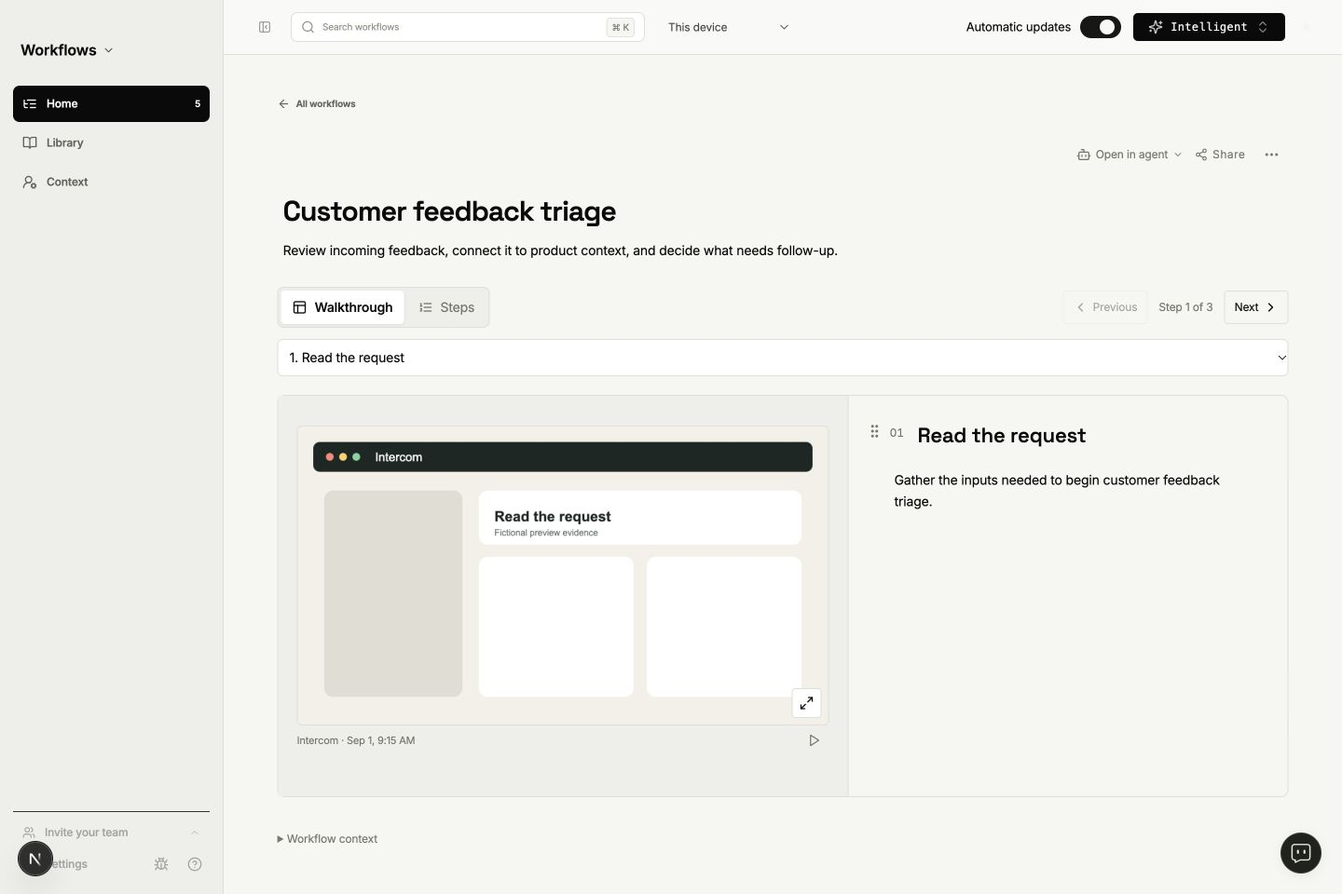
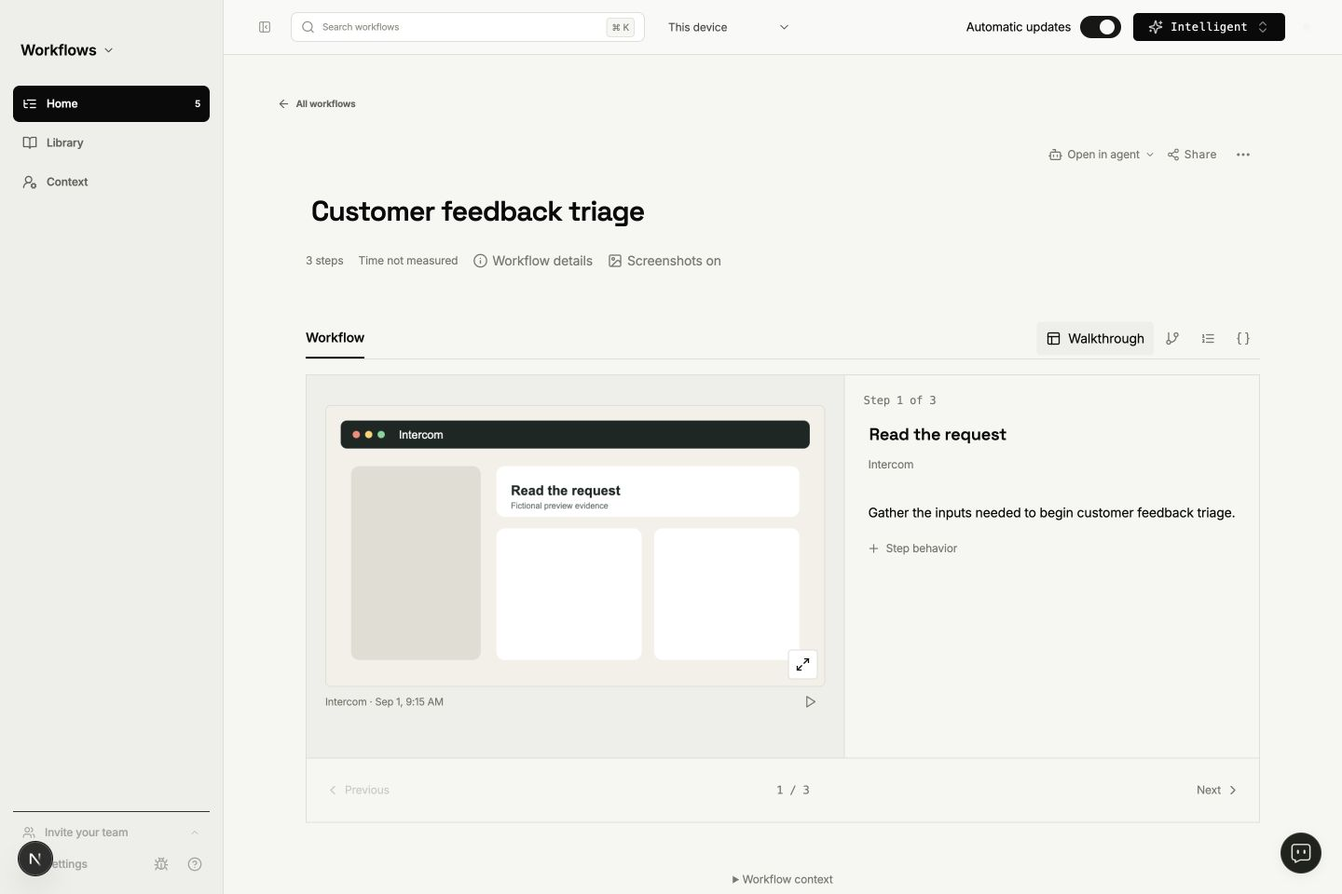
fix(workflows): align inspector and reading controls with web Studio

diff --git a/packages/workflows-ui/src/workflow-editor.tsx b/packages/workflows-ui/src/workflow-editor.tsx
@@ -20,6 +20,9 @@ import {
   PanelsTopLeft,
   ListOrdered,
   X,
+  GitBranch,
+  Image,
+  ImageOff,
 } from "lucide-react";
 import type { WorkflowMap, WorkflowStage } from "./model";
 import {
@@ -94,10 +97,11 @@ export function WorkflowEditor({ workflow, save, actions, secondaryActions = [],
     return initial;
   });
   const exports = useWorkflowDocumentExports(draft, downloadDocument);
-  const [view, setView] = useState<"steps" | "walkthrough">("walkthrough");
+  const [view, setView] = useState<"steps" | "walkthrough" | "map">("walkthrough");
   const [selectedStep, setSelectedStep] = useState(draft.stages[0]?.key);
   const stepIndex = Math.max(0, draft.stages.findIndex(stage => stage.key === selectedStep));
-  const walkthrough = !stepsOnly && view === "walkthrough";
+  const walkthrough = !stepsOnly && view !== "steps";
+  const [showEvidence, setShowEvidence] = useState(true);
   const unchangedStages = draft.stages.length === workflow.stages.length && draft.stages.every((stage, index) => stage.sourceIndex === index && isUnchangedStage(stage, workflow.stages[index]));
   const [panel, setPanel] = useState<"variables" | "history" | "details" | null>(null);
   useEffect(()=>{
@@ -215,11 +219,11 @@ export function WorkflowEditor({ workflow, save, actions, secondaryActions = [],
     closeStepMenu(false);
     focusField(`Step ${index + 1} title`);
   }
-  function addDetail(index: number) {
+  function addDetail(index: number, kind: StageEdit["procedure"][number]["kind"] = singleCheck ? "check" : "action") {
     const stage = draft.stages[index];
     if (stage.procedure.length >= 100 || (singleCheck && stage.procedure.length)) return;
     stageChange(index, { ...stage, procedure: [...stage.procedure,
-      { key: crypto.randomUUID(), id: crypto.randomUUID(), sourceIndex: null, kind: singleCheck ? "check" : "action", text: "" }],
+      { key: crypto.randomUUID(), id: crypto.randomUUID(), sourceIndex: null, kind, text: "" }],
     });
     closeStepMenu(false);
     focusField(`Block ${stage.procedure.length + 1} in step ${index + 1}`);
@@ -311,7 +315,7 @@ export function WorkflowEditor({ workflow, save, actions, secondaryActions = [],
   return (
     <section
       ref={editorRoot}
-      className={`${styles.editor} ${walkthrough ? styles.walkthrough : ""} ${panel ? styles.withPanel : ""}`}
+      className={`${styles.editor} ${!stepsOnly ? styles.localEditor : ""} ${walkthrough ? styles.walkthrough : ""} ${view === "map" && !stepsOnly ? styles.mapView : ""} ${!showEvidence || !renderSource ? styles.noEvidence : ""} ${panel ? styles.withPanel : ""}`}
       onMouseUp={event => {
         const selection = window.getSelection(); const value = selection?.toString().trim();
         if (!value || value.length > 1000 || !event.currentTarget.contains(selection?.anchorNode ?? null) || !event.currentTarget.contains(selection?.focusNode ?? null)) return;
@@ -381,29 +385,39 @@ export function WorkflowEditor({ workflow, save, actions, secondaryActions = [],
         <div className={styles.intro}>
           <div className={styles.titleRow}>
           {stepsOnly ? <h1 className={styles.title}>{workflow.title}</h1> : <Text title label="Workflow title" value={draft.title} onChange={title => change({ ...draft, title })} />}
-          <TimingDisclosure hideWhenUnknown showDuration label="Workflow timing" value={unchangedStages ? workflow.timing : null}
-            measured={unchangedStages && workflow.durationSource === "measured-meeting" ? { minutes: workflow.totalMinutes, samples: workflow.durationSampleCount ?? 0 } : undefined} />
+          {stepsOnly && <TimingDisclosure hideWhenUnknown showDuration label="Workflow timing" value={unchangedStages ? workflow.timing : null}
+            measured={unchangedStages && workflow.durationSource === "measured-meeting" ? { minutes: workflow.totalMinutes, samples: workflow.durationSampleCount ?? 0 } : undefined} />}
           </div>
-          {stepsOnly ? <p className={styles.readOnlyText}>{workflow.description}</p> : <Text label="Workflow description" value={draft.description} onChange={description => change({ ...draft, description })} />}
+          <div hidden={walkthrough}>{stepsOnly ? <p className={styles.readOnlyText}>{workflow.description}</p> : <Text label="Workflow description" value={draft.description} onChange={description => change({ ...draft, description })} />}</div>
+          {!stepsOnly && <div className={styles.metadata}>
+            <span>{draft.stages.length} steps</span>
+            {unchangedStages && (workflow.timing || workflow.durationSource === "measured-meeting") ? <TimingDisclosure showDuration label="Workflow timing" value={workflow.timing} measured={workflow.durationSource === "measured-meeting" ? {minutes: workflow.totalMinutes, samples: workflow.durationSampleCount ?? 0} : undefined} /> : <span>Time not measured</span>}
+            <button type="button" onClick={() => setPanel(panel === "details" ? null : "details")} aria-expanded={panel === "details"}><Info size={16} />Workflow details</button>
+            {renderSource && <button type="button" aria-pressed={!showEvidence} onClick={() => setShowEvidence(value => !value)}>{showEvidence ? <Image size={16} /> : <ImageOff size={16} />}{showEvidence ? "Screenshots on" : "Screenshots off"}</button>}
+          </div>}
         </div>
         <label className={styles.endpoint} hidden={walkthrough}>
           Starts when
           {stepsOnly ? <span className={styles.readOnlyText}>{workflow.trigger}</span> : <Text label="Workflow trigger" value={draft.trigger} onChange={trigger => change({ ...draft, trigger })} />}
         </label>
         <div className={styles.stepsHeading}>
-          {stepsOnly ? <strong>Steps</strong> : <div role="group" aria-label="Workflow view" className={styles.viewSwitch}>
-            <button type="button" aria-pressed={view === "walkthrough"} onClick={() => setView("walkthrough")}><PanelsTopLeft size={16} aria-hidden="true" />Walkthrough</button>
-            <button type="button" aria-pressed={view === "steps"} onClick={() => setView("steps")}><ListOrdered size={16} aria-hidden="true" />Steps</button>
-          </div>}
-        {walkthrough && draft.stages.length > 0 && <nav aria-label="Walkthrough navigation" className={styles.walkthroughNavigation}>
-          <button type="button" disabled={stepIndex === 0} onClick={() => chooseStep(stepIndex - 1)}><ChevronLeft size={16} />Previous</button>
-          <span role="status" aria-live="polite">Step {stepIndex + 1} of {draft.stages.length}</span>
-          <button type="button" disabled={stepIndex === draft.stages.length - 1} onClick={() => chooseStep(stepIndex + 1)}>Next<ChevronRight size={16} /></button>
-        </nav>}
-          {walkthrough && draft.stages.length > 0 && <select aria-label="Walkthrough step" value={draft.stages[stepIndex].key} onChange={event => chooseStep(draft.stages.findIndex(stage => stage.key === event.target.value))}>
-            {draft.stages.map((stage, index) => <option key={stage.key} value={stage.key}>{index + 1}. {stage.name || "Untitled step"}</option>)}
-          </select>}
+          {stepsOnly ? <strong>Steps</strong> : <>
+            <span className={styles.workflowTab}>Workflow</span>
+            <div className={styles.viewTools}>
+              <div role="group" aria-label="Workflow view" className={styles.viewSwitch}>
+                {([{ value: "walkthrough", label: "Walkthrough", icon: PanelsTopLeft }, { value: "map", label: "Map", icon: GitBranch }, { value: "steps", label: "Steps", icon: ListOrdered }] as const).map(({value, label, icon: Icon}) => <button key={value} type="button" aria-label={label} title={label} aria-pressed={view === value} onClick={() => setView(value)}><Icon size={16} aria-hidden="true" /><span hidden={view !== value}>{label}</span></button>)}
+              </div>
+              <button type="button" aria-label="Variables" title="Variables" aria-expanded={panel === "variables"} onClick={() => setPanel(panel === "variables" ? null : "variables")}><Braces size={16} /></button>
+            </div>
+          </>}
         </div>
+        <div className={styles.stepLayout}>
+        {!stepsOnly && view === "map" && <nav className={styles.map} aria-label="Workflow map">
+          {draft.stages.map((stage, index) => <Fragment key={stage.key}>
+            {index > 0 && <ArrowDown size={16} aria-hidden="true" />}
+            <button type="button" aria-label={`Go to step ${index + 1}: ${stage.name || "Untitled step"}`} aria-pressed={index === stepIndex} onClick={() => chooseStep(index)}><span>{String(index + 1).padStart(2,"0")}</span>{stage.name || "Untitled step"}</button>
+          </Fragment>)}
+        </nav>}
         <div className={styles.steps}>
           {draft.stages.map((stage, index) => (
             <Fragment key={stage.key}>
@@ -438,6 +452,7 @@ export function WorkflowEditor({ workflow, save, actions, secondaryActions = [],
             >
               <div className={styles.stepBody}>
               <div className={styles.instructions}>
+              {walkthrough && <p className={styles.stepCounter} role="status" aria-live="polite">Step {index + 1} of {draft.stages.length}</p>}
               <div className={styles.stepTop}>
                 <div data-step-actions data-open={stepMenu === stage.key || undefined} className={styles.stepControls}
                   onBlur={event => { if (!event.currentTarget.contains(event.relatedTarget as Node)) setStepMenu(null); }}
@@ -486,6 +501,7 @@ export function WorkflowEditor({ workflow, save, actions, secondaryActions = [],
                 {stepMenu === stage.key && <div className={styles.stepMenu} role="dialog" aria-label={`Actions for step ${index + 1}`}>
                   <button type="button" disabled={draft.stages.length >= 100} onClick={() => addStage(index + 1)}><Plus size={15} />Add step below</button>
                   {(!singleCheck || !stage.procedure.length) && <button type="button" disabled={stage.procedure.length >= 100} onClick={() => addDetail(index)}><Plus size={15} />{singleCheck ? "Add expected result" : "Add block"}</button>}
+                  {!stepsOnly && !stage.procedure.some(block => block.kind === "check") && <button type="button" disabled={stage.procedure.length >= 100} onClick={() => addDetail(index, "check")}><Plus size={15} />Add expected result</button>}
                   {!stepsOnly && <button type="button" onClick={()=>{setExecutionOpen(stage.key);closeStepMenu(false);requestAnimationFrame(()=>editorRoot.current?.querySelector<HTMLElement>(`[aria-label="Details for step ${index + 1}"] [contenteditable=true]`)?.focus());}}>Execution details and links</button>}
                   <button type="button" aria-label={`Move step ${index + 1} up`} disabled={index === 0} onClick={() => { closeStepMenu(); moveStage(index, index - 1); }}><ArrowUp size={15} />Move up</button>
                   <button type="button" aria-label={`Move step ${index + 1} down`} disabled={index === draft.stages.length - 1} onClick={() => { closeStepMenu(); moveStage(index, index + 1); }}><ArrowDown size={15} />Move down</button>
@@ -513,6 +529,7 @@ export function WorkflowEditor({ workflow, save, actions, secondaryActions = [],
                 </div>
               </div>
 
+              {!stepsOnly && <p className={styles.stepApps}>{(stage.sourceIndex !== null ? workflow.stages[stage.sourceIndex]?.apps : [])?.join(" · ")}</p>}
               <div data-variable-field="description"><Text
                 rich
                 label={`Step ${index + 1} description`}
@@ -525,6 +542,7 @@ export function WorkflowEditor({ workflow, save, actions, secondaryActions = [],
               <div className={styles.blocks}>
                 {stage.procedure.map((detail, detailIndex) => (
                   <div
+                    data-kind={detail.kind}
                     className={`${styles.block} ${blockDragOver === `${index}:${detailIndex}` ? styles.blockDrop : ""}`}
                     data-variable-field={`block/${detail.id ?? `block-${detailIndex}`}`}
                     key={detail.key}
@@ -631,6 +649,7 @@ export function WorkflowEditor({ workflow, save, actions, secondaryActions = [],
                       </select>
                       <ChevronDown size={12} aria-hidden="true" />
                     </div>
+                    {!stepsOnly && detail.kind === "check" && <span className={styles.expectedLabel}>Expected result</span>}
                     <Text
                       rich
                       label={`Block ${detailIndex + 1} in step ${index + 1}`}
@@ -654,6 +673,7 @@ export function WorkflowEditor({ workflow, save, actions, secondaryActions = [],
                 disabled={stage.procedure.length >= 100} onClick={() => addDetail(index)}>
                 <Plus size={14} aria-hidden="true" />{singleCheck ? "Add expected result" : "Add detail"}
               </button>}
+              {!stepsOnly && <button type="button" className={styles.stepBehavior} aria-expanded={executionOpen === stage.key} onClick={event => {stepMenuTrigger.current = event.currentTarget;setExecutionOpen(executionOpen === stage.key ? null : stage.key);}}><Plus size={14} />Step behavior</button>}
               {!stepsOnly && <section className={styles.execution} hidden={executionOpen !== stage.key} aria-label={`Details for step ${index + 1}`} onKeyDown={event => { if (event.key === "Escape") { setExecutionOpen(null); stepMenuTrigger.current?.focus(); } }}>
                 <header><strong>Step details</strong><button type="button" aria-label="Close step details" onClick={() => {setExecutionOpen(null);stepMenuTrigger.current?.focus();}}><X size={16} /></button></header>
                 {Object.entries(executionFields).map(([field,label])=><div key={field} data-variable-field={field}><label>{label}</label><WorkflowRichText label={`${label} for step ${index+1}`} value={stage[field as keyof typeof executionFields] ?? ""} onChange={value=>stageChange(index,{...stage,[field]:value})}/></div>)}
@@ -661,13 +681,18 @@ export function WorkflowEditor({ workflow, save, actions, secondaryActions = [],
               </section>}
               {stage.linkedWorkflowId && <button type="button" disabled={dirty || saving || !relatedWorkflows.some(w=>w.id===stage.linkedWorkflowId)} onClick={()=>openRelated?.(stage.linkedWorkflowId!)}>Open linked workflow: {relatedWorkflows.find(w=>w.id===stage.linkedWorkflowId)?.title ?? "Unavailable"}</button>}
               </div>
-              {stage.sourceIndex !== null && workflow.stages[stage.sourceIndex] && renderSource && <div className={styles.source} style={stage.imageLayout?.beforeText ? { order: -1 } : undefined}>{renderSource?.({ ...workflow.stages[stage.sourceIndex], imageLayout: stage.imageLayout }, layout => stageChange(index, { ...stage, imageLayout: layout }))}</div>}
+              {stage.sourceIndex !== null && workflow.stages[stage.sourceIndex] && renderSource && <div className={styles.source} hidden={!stepsOnly && !showEvidence} style={stage.imageLayout?.beforeText ? { order: -1 } : undefined}>{renderSource?.({ ...workflow.stages[stage.sourceIndex], imageLayout: stage.imageLayout }, layout => stageChange(index, { ...stage, imageLayout: layout }))}</div>}
               </div>
+              {walkthrough && <nav aria-label="Walkthrough navigation" className={styles.walkthroughNavigation}>
+                <button type="button" disabled={index === 0} onClick={() => chooseStep(index - 1)}><ChevronLeft size={16} />Previous</button>
+                <span>{index + 1} / {draft.stages.length}</span>
+                <button type="button" disabled={index === draft.stages.length - 1} onClick={() => chooseStep(index + 1)}>Next<ChevronRight size={16} /></button>
+              </nav>}
             </article>
             </Fragment>
           ))}
         </div>
-
+        </div>
         <button
           type="button"
           className={styles.addStep}

diff --git a/packages/workflows-ui/src/workflow-editor.module.css b/packages/workflows-ui/src/workflow-editor.module.css
@@ -37,14 +37,15 @@
 .intro .title { font-family: var(--heading-font); font-size: 30px; font-weight: 600; line-height: 1.25; letter-spacing: -.03em; margin-bottom: 4px; }
 .endpoint { display: block; color: var(--muted); font-size: 11px; padding: 6px 5px; }
 .endpoint textarea { margin-left: -5px; }
-.stepsHeading { display: flex; align-items: center; flex-wrap: wrap; gap: 12px; margin: 24px 0 16px; padding: 0; }
-.viewSwitch { display: flex; padding: 3px; gap: 3px; background: var(--soft); border: 1px solid var(--line); border-radius: 7px; }
-.editor .viewSwitch button { min-height: 36px; padding: 6px 12px; font-size: 14px; gap: 8px; }
-.viewSwitch button[aria-pressed="true"] { background: var(--panel); color: var(--ink); box-shadow: 0 1px 3px #00000012; font-weight: 550; }
-.stepsHeading select { min-width: 0; max-width: 100%; min-height: 32px; border: 1px solid var(--line); border-radius: 6px; padding: 4px 8px; background: var(--panel); color: var(--ink); font: inherit; font-size: 12px; }
-.walkthroughNavigation { display: flex; align-items: center; gap: 12px; margin-left: auto; }
-.editor .walkthroughNavigation button { min-height: 36px; padding: 6px 10px; border: 1px solid var(--line); color: var(--ink); }
-.walkthroughNavigation span { color: var(--muted); font-size: 12px; }
+.stepsHeading { display: flex; align-items: center; justify-content: space-between; flex-wrap: wrap; gap: 12px; margin: 48px 0 16px; padding: 0; min-height: 44px; border-bottom: 1px solid var(--line); }
+.editor:not(.localEditor) .stepsHeading { margin: 18px 0 8px; padding: 0 5px; min-height: 0; border: 0; }
+.workflowTab { align-self: stretch; display: flex; align-items: center; border-bottom: 2px solid var(--ink); color: var(--ink); font-size: 14px; font-weight: 550; }
+.viewTools, .viewSwitch { display: flex; align-items: center; gap: 2px; }
+.editor .viewTools button { min-height: 36px; min-width: 36px; padding: 6px 10px; font-size: 14px; gap: 8px; }
+.viewSwitch button[aria-pressed="true"], .viewTools > button[aria-expanded="true"] { background: var(--soft); color: var(--ink); }
+.walkthroughNavigation { display: flex; align-items: center; justify-content: space-between; gap: 12px; margin: 0; padding: 12px; min-height: 44px; border-top: 1px solid var(--line); }
+.editor .walkthroughNavigation button { min-height: 44px; min-width: 44px; padding: 6px 8px; font-size: 12px; }
+.walkthroughNavigation span { color: var(--muted); font: 12px var(--mono-font, monospace); }
 .step[hidden], .insertion[hidden] { display: none; }
 .step[tabindex="-1"] { scroll-margin-top: 80px; }
 .stepsHeading strong { color: var(--muted); font-size: 11px; font-weight: 500; }
@@ -185,32 +186,59 @@
 
 .editor a[href^="#workflow-io-"] { color:var(--ink); background:var(--soft); border-bottom:1px dashed var(--muted);border-radius:3px;padding:1px 3px;text-decoration:none; }
 
-/* Both views retain the same instructions, source instances and draft. */
+/* Use the website's section toolbar, inspector card, and card footer. */
+.localEditor { max-width: 1024px; }
+.localEditor.withPanel { max-width: 1120px; }
+.metadata { display: flex; flex-wrap: wrap; align-items: center; gap: 8px 16px; margin-top: 12px; color: var(--muted); font-size: 12px; }
+.editor .metadata button { padding: 0; font-size: 14px; }
+.stepLayout { min-width: 0; }
 .stepBody { display: flex; flex-direction: column; }
 .instructions { display: contents; }
 .instructions > .stepTop { order: -2; }
 .instructions > [data-variable-field="description"] { margin-left: 24px; }
-.execution[hidden], .editor button[hidden], .endpoint[hidden] { display: none; }
+.execution[hidden], .editor button[hidden], .endpoint[hidden], .source[hidden] { display: none; }
 .execution { padding: 12px; border: 1px solid var(--line); border-radius: 6px; }
 .execution > header { display: flex; justify-content: space-between; align-items: center; }
-.walkthrough { max-width: 1180px; }
+.editor .stepBehavior { margin: 4px 0 0 24px; padding: 4px; gap: 6px; min-height: 36px; }
+.expectedLabel { grid-column: 1; grid-row: 1; color: var(--muted); font-size: 12px; padding: 8px 5px 0; }
+.localEditor .block[data-kind="check"] > [data-testid="procedure-markdown"] { grid-row: 2; }
+.localEditor .block[data-kind="check"] > .kindLabel { grid-row: 2; }
 .walkthrough .steps { padding-left: 0; }
 .walkthrough .insertion { display: none; }
-.walkthrough .stepsHeading > select { flex-basis: 100%; width: 100%; min-height: 40px; font-size: 14px; }
-.walkthrough .stepBody { display: grid; grid-template-columns: minmax(0, 1.3fr) minmax(0, 1fr); border: 1px solid var(--line); border-radius: 8px; }
-.walkthrough .instructions { display: block; min-width: 0; grid-column: 2; grid-row: 1; padding: 24px 24px 24px 44px; }
-.walkthrough .instructions:only-child { grid-column: 1 / -1; }
+.walkthrough .step { padding: 0; margin: 0; border: 1px solid var(--line); }
+.walkthrough .stepBody { display: grid; grid-template-columns: minmax(0, 1.3fr) minmax(0, 1fr); }
+.walkthrough .instructions { display: block; min-width: 0; grid-column: 2; grid-row: 1; padding: 20px; }
+.walkthrough .instructions:only-child, .noEvidence .instructions { grid-column: 1 / -1; }
+.noEvidence .stepBody { grid-template-columns: minmax(0, 1fr); }
 .walkthrough .source { grid-column: 1; grid-row: 1; margin: 0; padding: 20px; background: var(--soft); border-right: 1px solid var(--line); }
-.walkthrough .step .title { font-size: 22px; line-height: 1.35; }
-.walkthrough .stepTop { margin-bottom: 12px; }
+.walkthrough .step .title { font-size: 18px; line-height: 1.5; font-weight: 600; }
+.walkthrough .stepTop { grid-template-columns: minmax(0, 1fr) auto; margin-bottom: 0; }
+.walkthrough .number { display: none; }
+.stepCounter { color: var(--muted); font: 12px var(--mono-font, monospace); margin: 0 0 12px; }
+.walkthrough .stepApps { margin: 6px 5px 20px; min-height: 24px; font-size: 12px; }
 .walkthrough .blocks, .walkthrough .instructions > [data-variable-field="description"] { margin-left: 0; }
 .walkthrough .block { grid-template-columns: minmax(0, 1fr); margin: 8px 0; }
-.walkthrough .kindLabel { grid-column: 1; grid-row: 2; opacity: 0; height: 0; overflow: hidden; }
+.walkthrough .kindLabel { grid-column: 1; grid-row: 3; opacity: 0; height: 0; overflow: hidden; }
+.walkthrough .block[data-kind="check"] > .kindLabel { grid-row: 3; }
 .walkthrough .block:hover .kindLabel, .walkthrough .block:focus-within .kindLabel { opacity: 1; height: auto; overflow: visible; }
-.walkthrough .stepControls > .grip { opacity: 1; pointer-events: auto; }
+.walkthrough .stepControls { left: -24px; }
+.walkthrough .stepControls > .grip { opacity: 0; pointer-events: none; }
+.walkthrough .step:hover .stepControls > .grip, .walkthrough .step:focus-within .stepControls > .grip { opacity: 1; pointer-events: auto; }
+.walkthrough .stepMenu { left: 24px; }
+.walkthrough .stepBehavior { margin-left: 0; }
+.mapView .stepLayout { display: grid; grid-template-columns: 250px minmax(0, 1fr); align-items: start; gap: 20px; }
+.map { display: flex; flex-direction: column; align-items: center; gap: 12px; min-width: 0; color: var(--muted); }
+.editor .map > button { justify-content: flex-start; text-align: left; width: 100%; min-height: 64px; padding: 12px; border: 1px solid var(--line); background: var(--panel); font-size: 13px; gap: 12px; }
+.editor .map > button[aria-pressed="true"] { border-color: var(--ink); color: var(--ink); }
+.map > button > span { color: var(--muted); font: 11px var(--mono-font, monospace); }
+.mapView .stepBody { grid-template-columns: minmax(0, 1fr); }
+.mapView .instructions { grid-column: 1; grid-row: 1; }
+.mapView .source { grid-column: 1; grid-row: 2; border-right: 0; border-top: 1px solid var(--line); }
 @container workflow-editor (max-width: 760px) {
   .walkthrough .stepBody { grid-template-columns: minmax(0, 1fr); }
-  .walkthrough .instructions { grid-column: 1; grid-row: 1; padding: 20px 16px 20px 38px; }
+  .walkthrough .instructions { grid-column: 1; grid-row: 1; padding: 16px; }
   .walkthrough .source { grid-column: 1; grid-row: 2; border-right: 0; border-top: 1px solid var(--line); padding: 16px; }
-  .walkthroughNavigation { margin-left: 0; flex: 1; justify-content: space-between; }
+  .mapView .stepLayout { grid-template-columns: minmax(0, 1fr); }
+  .stepsHeading { gap: 8px; }
+  .editor .viewTools button { padding: 6px 8px; font-size: 12px; }
 }

diff --git a/packages/workflows-ui/src/workflows-app.tsx b/packages/workflows-ui/src/workflows-app.tsx
@@ -747,10 +747,7 @@ export function WorkflowDetail({ breadcrumb, relatedWorkflows, openRelated, edit
       {breadcrumb}
       {saveEdits ? <WorkflowEditor {...editorOptions} relatedWorkflows={relatedWorkflows} openRelated={openRelated} key={workflow.id || workflow.title} workflow={workflow} save={saveEdits} actions={workflowActions} secondaryActions={secondaryActions} downloadDocument={platform.library?.downloadDocument} renderSource={observationsAvailable ? (stage, onImageLayoutChange) => <WorkflowStepEvidence workflow={workflow} stage={stage} platform={platform} onImageLayoutChange={onImageLayoutChange} /> : undefined} /> : <WorkflowDocument workflow={workflow} actions={workflowActions} secondaryActions={secondaryActions} downloadDocument={platform.library?.downloadDocument} sourceLabel={sourceLabel}
         renderSource={observationsAvailable ? stage => <WorkflowStepEvidence workflow={workflow} stage={stage} platform={platform} /> : undefined} />}
-      <details className={styles.workflowContext}>
-      <summary>Workflow context</summary>
       <div className={styles.workflowNotes}>
-      <p className={styles.workflowReviewState}>{workflow.userEditedAt ? ui("Edited by you · sources kept as references") : workflow.evidenceStatus === "supported-steps" ? ui("Source-backed steps · not execution-tested") : ui("Needs review")}</p>
       {saveCorrection && !platform.assistant?.saveFeedback && <WorkflowCorrection key={`correction:${workflow.title}`} workflow={workflow} save={saveCorrection} />}
       {observationsAvailable && <WorkflowQuestions workflow={workflow} active={active} voice={platform.questionnaireVoice} save={canSaveAnswers && platform.saveWorkflowAnswers ? async correction => {
         try {
@@ -766,13 +763,16 @@ export function WorkflowDetail({ breadcrumb, relatedWorkflows, openRelated, edit
           throw error;
         }
       } : undefined} />}
+      <details className={styles.workflowContext}>
+      <summary>Workflow context</summary>
+      <p className={styles.workflowReviewState}>{workflow.userEditedAt ? ui("Edited by you · sources kept as references") : workflow.evidenceStatus === "supported-steps" ? ui("Source-backed steps · not execution-tested") : ui("Needs review")}</p>
       {!!workflow.variations.length && <section className={styles.panel}><h2>Variations</h2><ul className={styles.plainList}>{workflow.variations.map(item => <li key={item}>{item}</li>)}</ul></section>}
       {!!actionableFriction.length && <section><div className={styles.sectionHeading}><div><h2>Friction you can affect</h2></div></div><BottleneckList items={actionableFriction.map((item) => ({ ...item, workflowTitle: workflow.title, repetitions: workflow.repetitions }))} /></section>}
       {!!constraints.length && <section><div className={styles.sectionHeading}><div><h2>External and required constraints</h2></div></div><BottleneckList items={constraints.map((item) => ({ ...item, workflowTitle: workflow.title, repetitions: workflow.repetitions }))} numbered={false} /></section>}
 
 
-      </div>
       </details>
+      </div>
       {skillOpen && <WorkflowSkillDialog workflow={workflow} draft={skillDraft} generating={skillGenerating} saving={skillSaving} saved={skillSaved} preview={platform.skillInstallMode === "preview"} progress={skillProgress} error={skillError} update={draft => {
         setSkillDraft(draft);
         if (platform.library) void platform.library.saveSkillDraft(guideKey(workflow), draft).catch(() => setSkillError("Could not save your skill changes. Try again before leaving."));

diff --git a/apps/screenpipe-app-tauri/lib/workflows/workflow-walkthrough.test.tsx b/apps/screenpipe-app-tauri/lib/workflows/workflow-walkthrough.test.tsx
@@ -34,7 +34,8 @@ it("shows one editable step, bounds navigation, and never saves a view change", 
   expect(title(3)).toBeVisible();
   expect(button("Next")).toBeDisabled();
   expect(screen.getByText("Step 3 of 3")).toBeVisible();
-  fireEvent.change(screen.getByRole("combobox", { name: "Walkthrough step" }), { target: { value: screen.getByRole("option", { name: /^1\./ }).getAttribute("value") } });
+  fireEvent.click(button("Previous"));
+  fireEvent.click(button("Previous"));
   expect(title(1)).toBeVisible();
   expect(change).not.toHaveBeenCalled();
   expect(save).not.toHaveBeenCalled();
@@ -114,6 +115,34 @@ it("keeps the same evidence mounted while switching presentation", () => {
   fireEvent.click(button("Next"));
   fireEvent.click(button("Previous"));
   expect(screen.getByRole("img", { name: source.stages[0].name })).toBe(image);
+});
+
+it("adds an expected result using the existing check-block save contract", () => {
+  const { change } = editor();
+  fireEvent.click(button("Step 1 actions"));
+  fireEvent.click(button("Add expected result"));
+  expect(screen.getByText("Expected result", { exact: true })).toBeVisible();
+  expect(change.mock.lastCall![0].stages[0].procedure.at(-1)).toMatchObject({ kind: "check", text: "" });
+});
+
+it("uses the same selected step in Map and lets screenshots be hidden without editing the draft", () => {
+  const source = workflow(), change = vi.fn();
+  render(<WorkflowEditor workflow={source} save={vi.fn()} onDraftChange={change} sessionRecovery={false} saveDisabled renderSource={stage => <img alt={stage.name} src={stage.screenshot!.dataUrl} />} />);
+  const image = screen.getByRole("img", { name: source.stages[0].name });
+  fireEvent.click(button("Screenshots on"));
+  expect(image).not.toBeVisible();
+  expect(button("Screenshots off")).toHaveAttribute("aria-pressed", "true");
+  fireEvent.click(button("Map"));
+  fireEvent.click(button(`Go to step 3: ${source.stages[2].name}`));
+  expect(title(3)).toBeVisible();
+  fireEvent.click(button("Walkthrough"));
+  expect(title(3)).toBeVisible();
+  expect(button("Next")).toBeDisabled();
+  fireEvent.click(button("Screenshots off"));
+  fireEvent.click(button("Previous"));
+  fireEvent.click(button("Previous"));
+  expect(screen.getByRole("img", { name: source.stages[0].name })).toBe(image);
+  expect(change).not.toHaveBeenCalled();
 });
 
 it("enlarges an existing screenshot without selecting, deleting or reordering it", () => {
